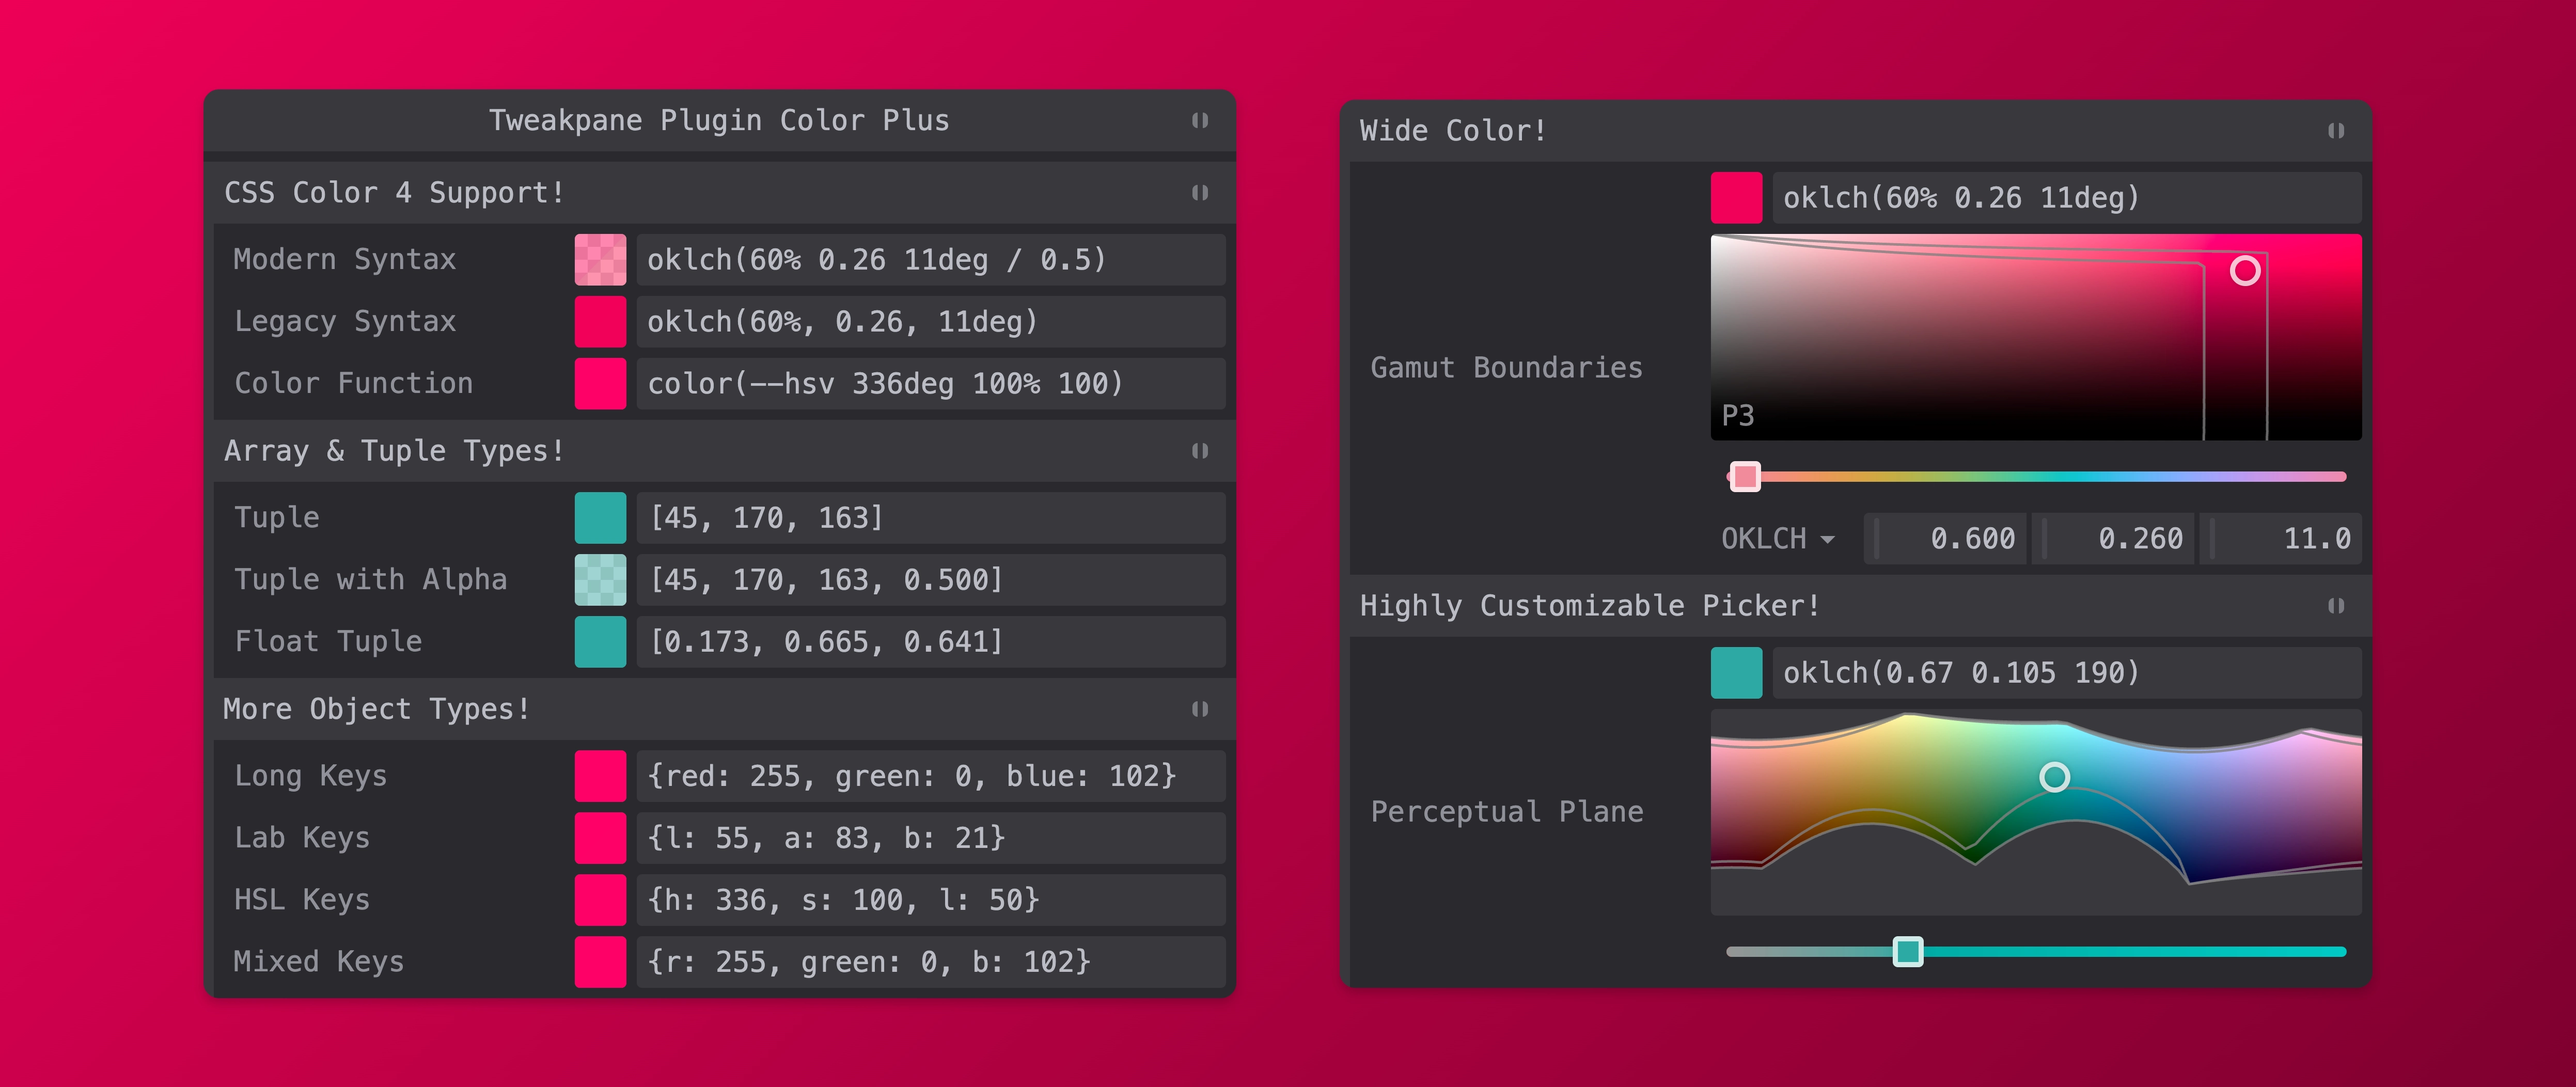
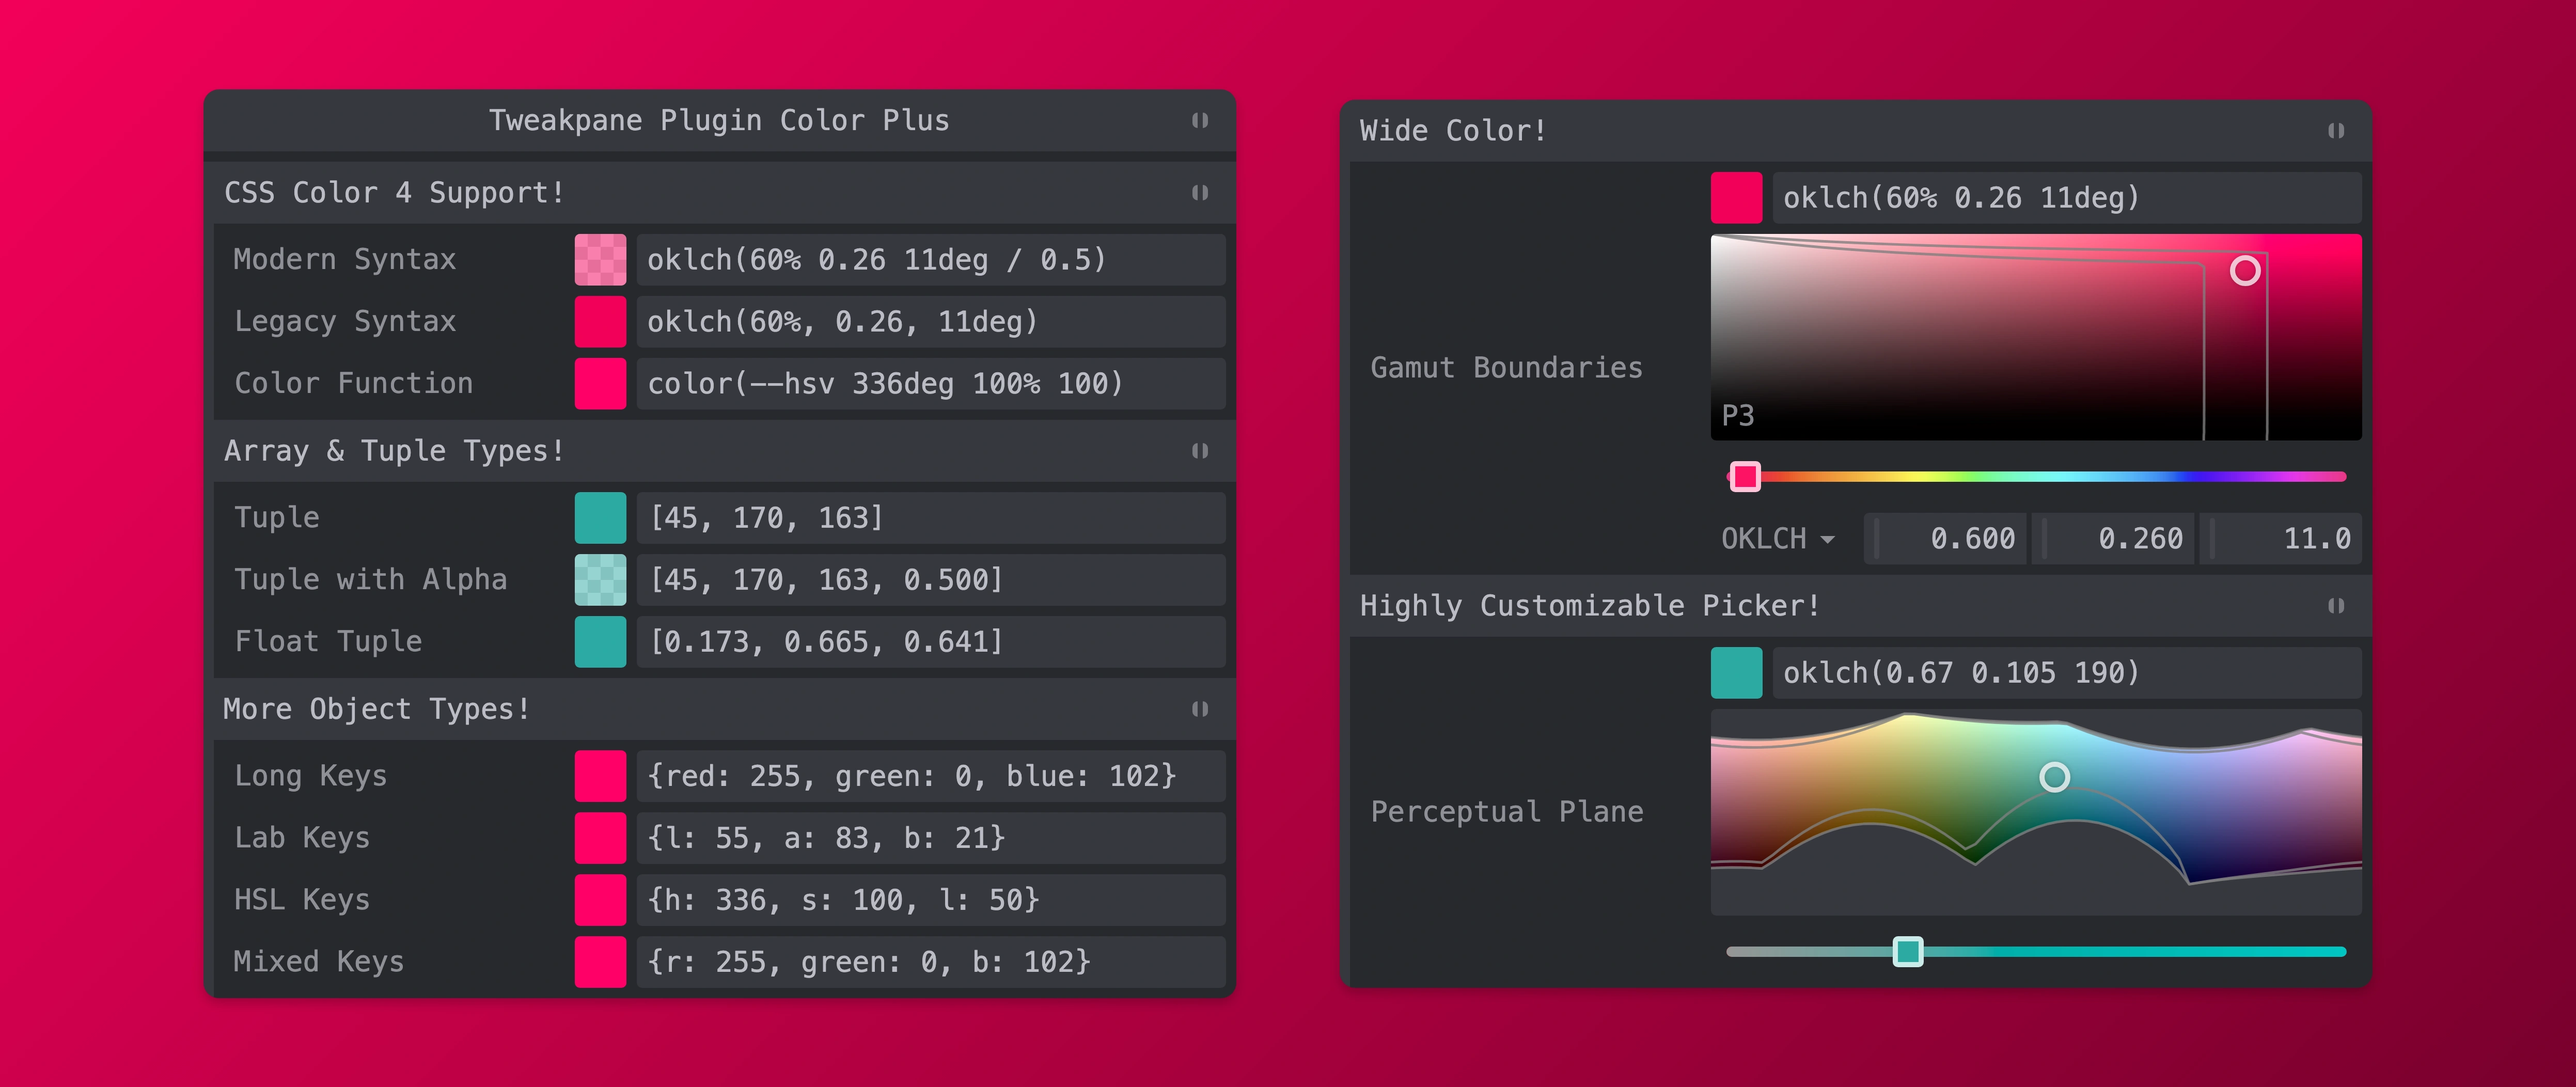
Increase saturation of hue channel slider for visibility and to better match original Tweakpane control.

diff --git a/src/view/channel-slider.ts b/src/view/channel-slider.ts
@@ -1,34 +1,52 @@
 /*
  * Off-plane channel slider: a horizontal canvas ramp sweeping whichever OKLCH
  * channel the active layout assigns to the slider (lightness, chroma, or hue).
- * The ramp is drawn at the current color's other two channels (display-clamped)
- * so it previews the path the slider walks, and the marker tracks the channel's
- * position within its range. Because the ramp depends on the other channels, it
- * is redrawn whenever the color changes.
+ * Lightness and chroma ramps preview the current color's path; the hue ramp
+ * uses vivid gamut-boundary colors with smoothed lightness. The marker
+ * tracks the channel's position within its range and matches the ramp's color.
  */
 import type { Value, View, ViewProps } from '@tweakpane/core'
 import { ClassName } from '@tweakpane/core'
+import { to as colorJsConvert } from 'colorjs.io/fn'
 import type { Channel, PlaneLayout } from '../model/channel.js'
 import type { ColorPlus } from '../model/color-plus.js'
 import { channelMax, LAYOUTS, unitToValue, valueToUnit } from '../model/channel.js'
-import { computeGlobalMaxChroma, oklchToRgb, widestGamut } from '../model/gamut.js'
+import { computeGlobalMaxChroma, maxChroma, oklchToRgb, widestGamut } from '../model/gamut.js'
 
 const cn = ClassName('hpl')
 /** Ramp samples across the strip; the canvas is scaled up by CSS. */
 const RAMP_SAMPLES = 256
-/**
- * Fixed lightness/chroma for the hue ramp so every hue reads as a vivid target.
- * At lightness 0.75 the worst-case hues (cyan and blue) both hold chroma 0.126
- * inside sRGB, so the strip stays clip-free all the way around.
- */
-const HUE_RAMP_LIGHTNESS = 0.75
-const HUE_RAMP_CHROMA = 0.126
+/** Smooth the cusp's sharp lightness changes over nearby hues. */
+const HUE_SMOOTHING_RADIUS = 16
+const HUE_SMOOTHING_SIGMA = 6
+
+// The hue strip is independent of the selected color; reuse its raster across
+// views and changes instead of repeating the smoothing and gamut searches.
+let hueRampImage: ImageData | undefined
 
 const finite = (value: null | number | undefined): number =>
 	value === null || value === undefined || Number.isNaN(value) ? 0 : value
 
 function clampByte(value: number): number {
 	return Math.round(Math.max(0, Math.min(1, value)) * 255)
+}
+
+function hueRampColor(hue: number): Record<Channel, number> {
+	// Following the fully saturated OKHSV cusp directly produces a sharp drop
+	// near blue. Smooth only its lightness, preserving the exact OKLCH hue,
+	// then find the available chroma at that lightness instead of clipping RGB.
+	let lightness = 0
+	let totalWeight = 0
+	for (let offset = -HUE_SMOOTHING_RADIUS; offset <= HUE_SMOOTHING_RADIUS; offset += 2) {
+		const weight = Math.exp(-0.5 * (offset / HUE_SMOOTHING_SIGMA) ** 2)
+		const { coords } = colorJsConvert({ coords: [hue + offset, 1, 1], spaceId: 'okhsv' }, 'oklch')
+		lightness += finite(coords[0]) * weight
+		totalWeight += weight
+	}
+
+	lightness /= totalWeight
+	// A little headroom softens transitions where the limiting RGB channel changes.
+	return { l: lightness, c: maxChroma(lightness, hue, 'srgb') * 0.98, h: hue }
 }
 
 /** Whether a 2D canvas can be backed by Display-P3 (probe the real API). */
@@ -110,25 +128,31 @@ export class ChannelSliderView implements View {
 		const colorSpace: PredefinedColorSpace = supportsWideCanvas ? 'display-p3' : 'srgb'
 		const context = this.canvasElement.getContext('2d', { colorSpace })
 		const coords = this.oklchCoords()
-		// The hue ramp holds lightness and chroma fixed so every hue stays a legible
-		// target; the lightness and chroma ramps preview the actual color path.
-		const base: Record<Channel, number> =
-			this.channel === 'h' ? { l: HUE_RAMP_LIGHTNESS, c: HUE_RAMP_CHROMA, h: coords.h } : coords
+		const base = this.channel === 'h' ? hueRampColor(coords.h) : coords
 
 		if (context !== null) {
-			const pixels = new Uint8ClampedArray(RAMP_SAMPLES * 4)
-			for (let i = 0; i < RAMP_SAMPLES; i++) {
-				const value = unitToValue(this.channel, i / (RAMP_SAMPLES - 1), this.globalMaxChroma)
-				const sample: Record<Channel, number> = { ...base, [this.channel]: value }
-				const [r, g, b] = oklchToRgb(sample.l, sample.c, sample.h, target)
-				const offset = i * 4
-				pixels[offset] = clampByte(r)
-				pixels[offset + 1] = clampByte(g)
-				pixels[offset + 2] = clampByte(b)
-				pixels[offset + 3] = 255
+			let ramp = this.channel === 'h' ? hueRampImage : undefined
+			if (ramp === undefined) {
+				const pixels = new Uint8ClampedArray(RAMP_SAMPLES * 4)
+				for (let i = 0; i < RAMP_SAMPLES; i++) {
+					const value = unitToValue(this.channel, i / (RAMP_SAMPLES - 1), this.globalMaxChroma)
+					const sample =
+						this.channel === 'h' ? hueRampColor(value) : { ...base, [this.channel]: value }
+					const [r, g, b] = oklchToRgb(sample.l, sample.c, sample.h, target)
+					const offset = i * 4
+					pixels[offset] = clampByte(r)
+					pixels[offset + 1] = clampByte(g)
+					pixels[offset + 2] = clampByte(b)
+					pixels[offset + 3] = 255
+				}
+
+				ramp = new ImageData(pixels, RAMP_SAMPLES, 1, { colorSpace })
+				if (this.channel === 'h') {
+					hueRampImage = ramp
+				}
 			}
 
-			context.putImageData(new ImageData(pixels, RAMP_SAMPLES, 1, { colorSpace }), 0, 0)
+			context.putImageData(ramp, 0, 0)
 		}
 
 		const unit = valueToUnit(this.channel, coords[this.channel], this.globalMaxChroma)
